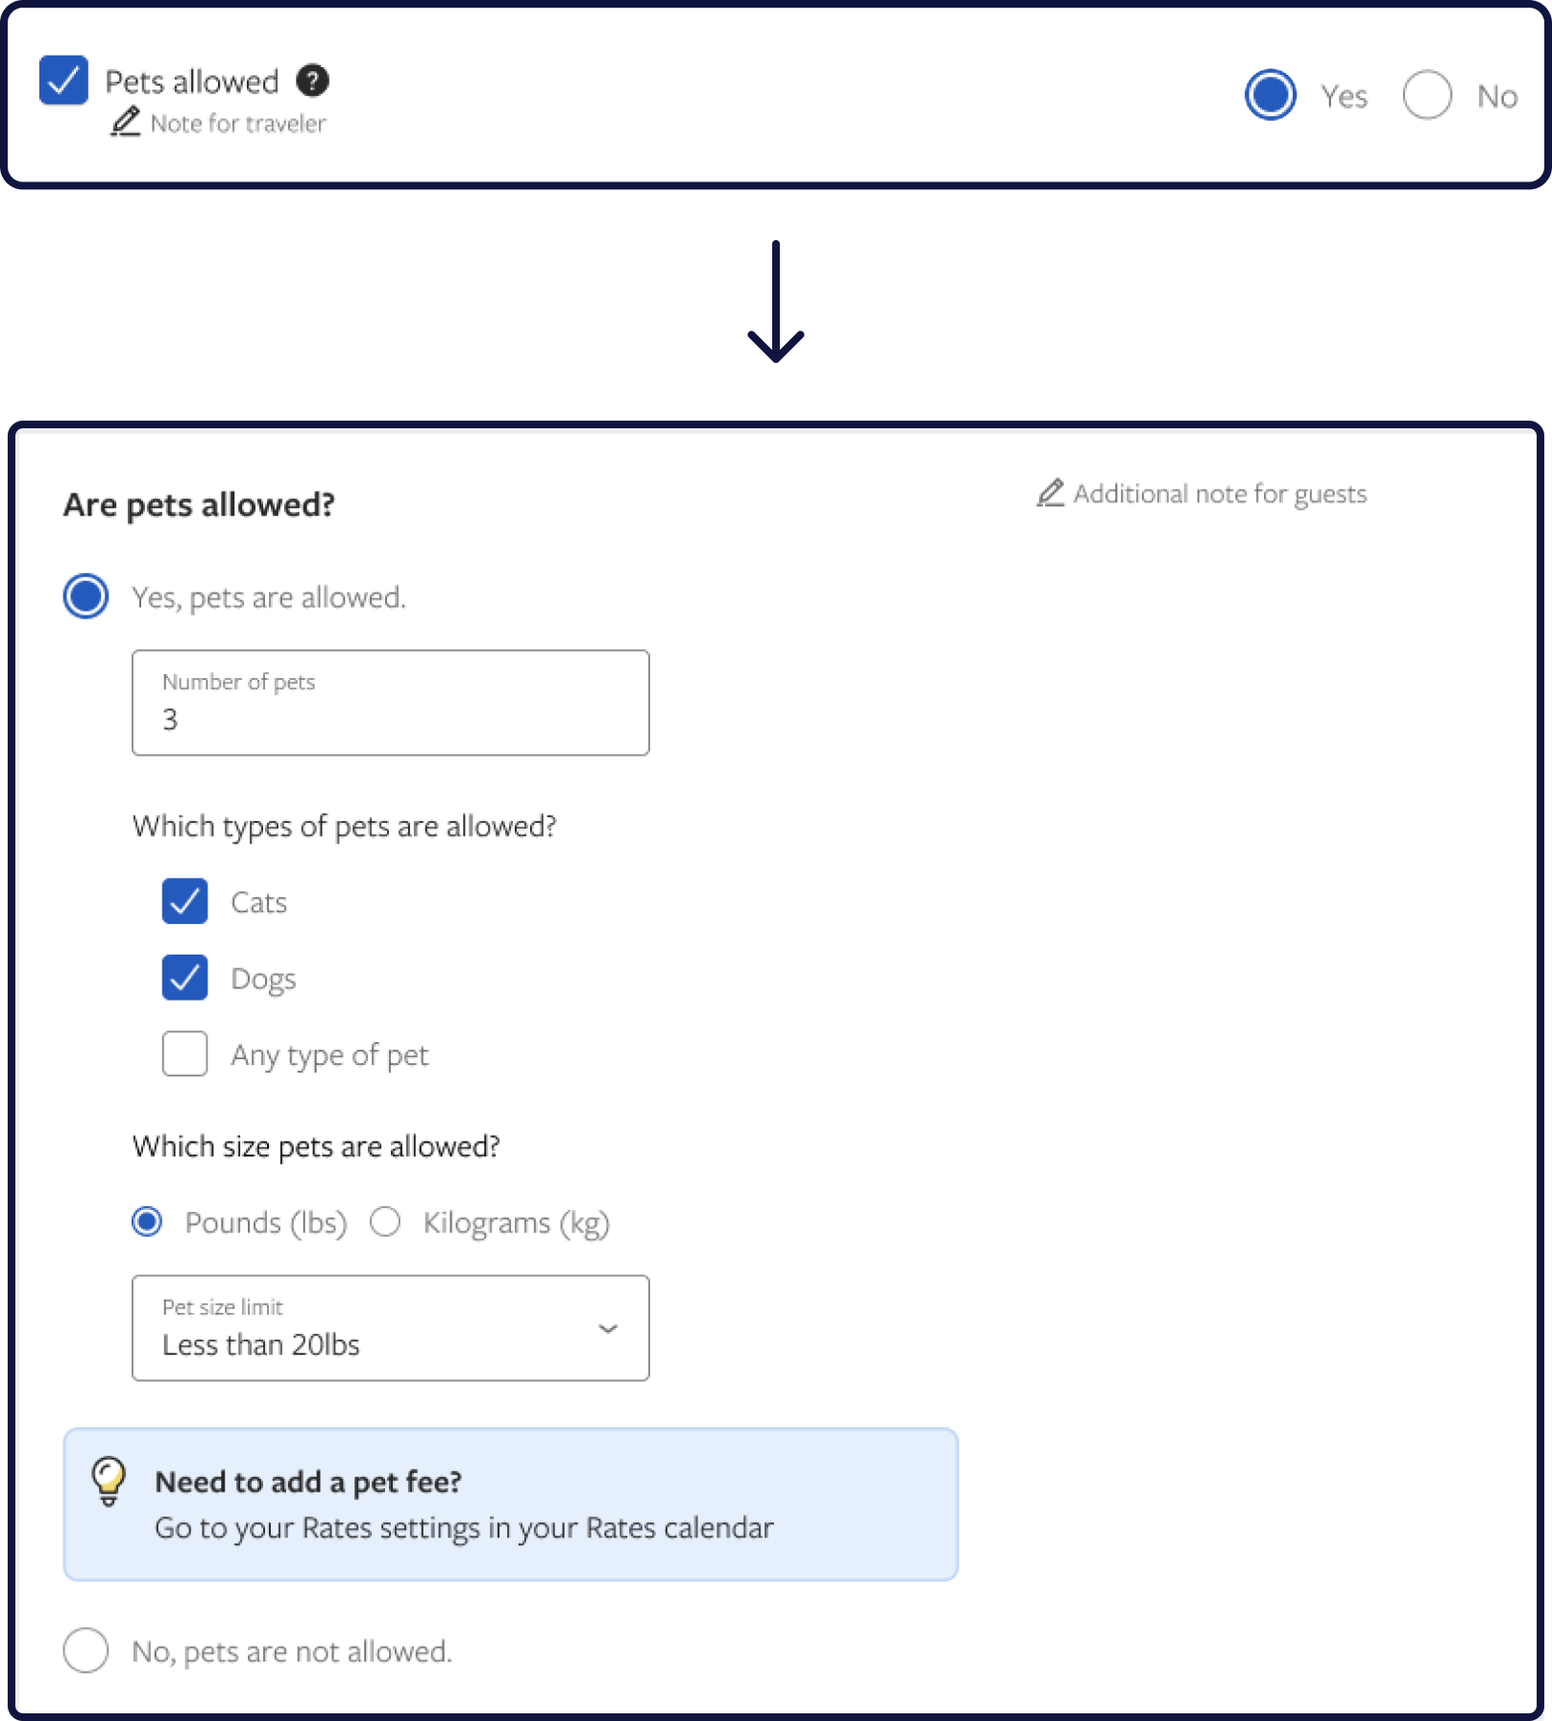
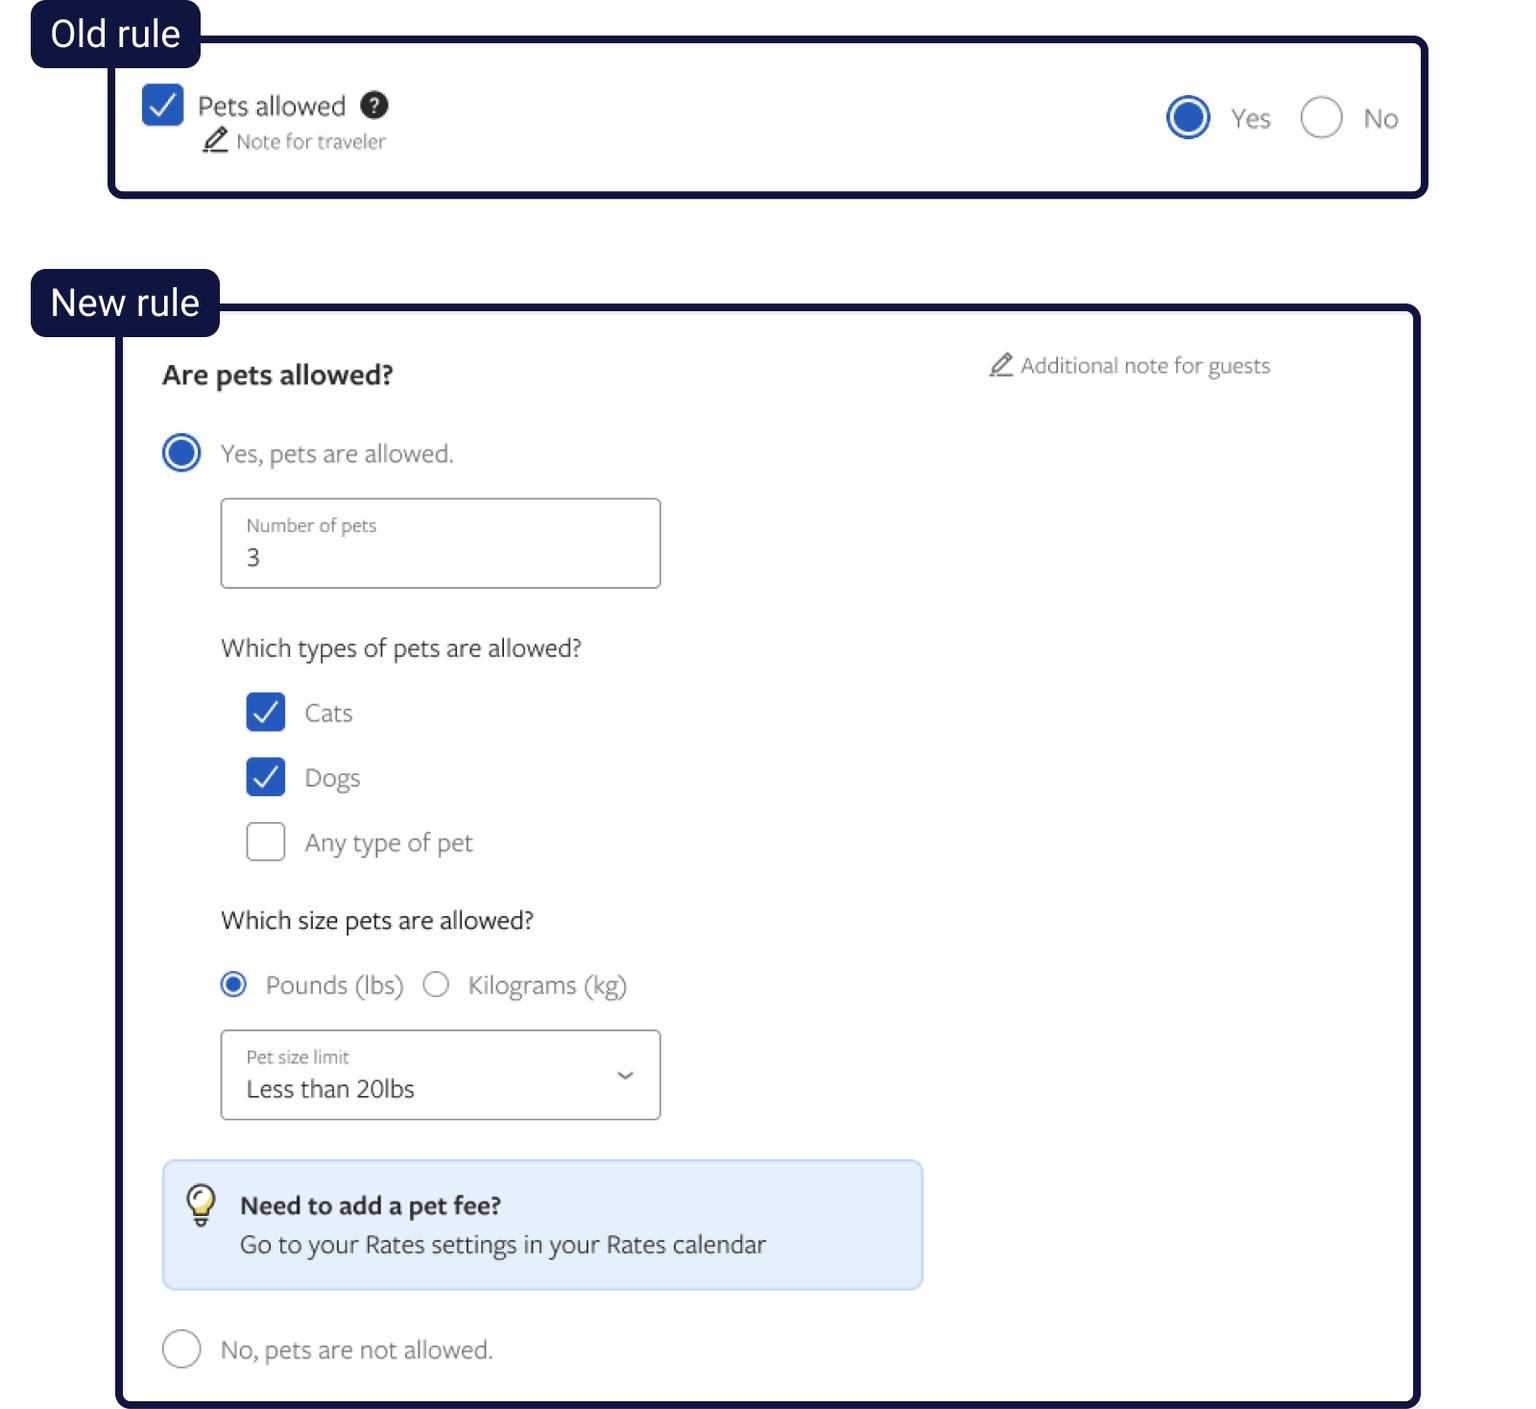
update content

Changed region(s): [[0.0, 0.184, 1.0, 1.0], [0.0, 0.0, 1.0, 0.1534], [0.4062, 0.3681, 0.4375, 0.4294]]

diff --git a/index.html b/index.html
@@ -16,13 +16,13 @@
   <meta property="og:type" content="website">
   <meta property="og:url" content="http://www.jannonjeffries.com">
   <meta property="og:description" content="View the design work of Jannon Jeffries">
-  <!-- <meta property="og:image" content="TBD"> -->
+  <meta property="og:image" content="images/OG.png">
 
 
   <!-- Favicon -->
-  <!-- <link rel="icon" href="/favicon.ico">
-    <link rel="icon" href="/favicon.svg" type="image/svg+xml">  
-    <link rel="apple-touch-icon" href="/apple-touch-icon.png"> -->
+  <link rel="icon" href="images/fav/favicon.ico">
+  <link rel="icon" href="images/logo_rose-gold.svg" type="image/svg+xml">
+  <link rel="apple-touch-icon" href="/apple-touch-icon.png">
 
 
   <!-- Fonts -->
@@ -97,11 +97,6 @@
         <h3>Overview</h3>
         <p>Homeowners set property rules travelers must agree to prior to booking. These rules encompass items like max
           occupancy, minimum renter age, allowance of pets, and several other rules.</p>
-        <!-- <div class="large-image-container">
-          <img class="project-image-large border-radius"
-            src="images/projects/house-rules/overview.png"
-            alt="A feedback module for the house rules page">
-        </div> -->
         <hr>
         <h3>Problem</h3>
         <p>Hosts cancel on travelers due to confusion surrounding house rules. Vrbo has over 13,000 cancellations
@@ -113,8 +108,7 @@
           were included in the house
           rules. (The outlined sections pictured above are areas for custom content.)</p>
         <div class="large-image-container">
-          <img class="project-image-large"
-            src="images/projects/house-rules/original.png"
+          <img class="project-image-large" src="images/projects/house-rules/original.png"
             alt="Original house rules experience">
         </div>
         <hr>
@@ -161,8 +155,7 @@
           Lastly, I regularly shared my working designs at our host team design critique for transparency and feedback.
         </p>
         <div class="large-image-container">
-          <img class="project-image-large"
-            src="images/projects/house-rules/process.png"
+          <img class="project-image-large" src="images/projects/house-rules/process.png"
             alt="Early iterations of the pets rule">
         </div>
         <div class="note center">
@@ -177,8 +170,7 @@
           <li>If each rule provided enough options for hosts</li>
         </ul>
         <div class="large-image-container">
-          <img class="project-image-large video-border"
-            src="images/projects/house-rules/prototype.gif"
+          <img class="project-image-large video-border" src="images/projects/house-rules/prototype.gif"
             alt="A prototype demonstrating the rule allowing pets">
         </div>
         <div class="note center">
@@ -197,31 +189,31 @@
         <h3>New designs</h3>
         <p>After updating some of the content and syncing with the Engineering team about scope, we were able to push
           forward with an updated version of house rules.</p>
-        <h4>A look at the new host view on desktop and mobile and what that content looks like for the traveler</h4>
+        <h4>A look at the new design</h4>
+        <p>The new host design utilizes components from the Vrbo design system, allowing hosts to always have the save
+          action within view. The content in the host view is also clearly represented in the traveler view as the host
+          intended.</p>
         <div class="large-image-container">
-          <img class="project-image-large"
-            src="images/projects/house-rules/new.png"
+          <img class="project-image-large" src="images/projects/house-rules/new.png"
             alt="The new house rules experience displayed on different screen sizes">
         </div>
         <h4>A comparison between an old rule and a new rule</h4>
         <p>The original rule included an "on/off" state as well as options for "yes" and "no". The new rule has only the
           "yes" and "no" options with other more specific inputs inspired by early user research.</p>
         <div class="large-image-container">
-          <img class="project-image-large"
-            src="images/projects/house-rules/compare.png"
+          <img class="project-image-large" src="images/projects/house-rules/compare.png"
             alt="Showing the difference between the original pets rule and the new pets rule">
         </div>
         <h4>Rule states</h4>
-        <p>In order to provide the Engineers with clarity, each rule was broken down into its different states.</p>
+        <p>In order to provide the Engineers with clarity, each rule has been broken down into its different states.
+          Using progressive disclosure, we only surface relevant content when the appropriate rule choice is selected.
+        </p>
         <div class="large-image-container">
-          <img class="project-image-large"
-            src="images/projects/house-rules/states.png"
+          <img class="project-image-large" src="images/projects/house-rules/states.png"
             alt="Showing the different states of the new pets rule">
         </div>
-      </div>
       <hr>
       <h3>Objectives follow-up</h3>
-      <p></p>
       <ul>
         <li>No amount of new structured rules will be sufficient to replace custom content for hosts with unique
           properties.</li>
@@ -232,8 +224,7 @@
       <hr>
       <h3>Next steps</h3>
       <p>To improve the house rules experience even further, we plan to add more rules after implementing additional
-        natural
-        language processing for host custom rules and notes.</p>
+        natural language processing for host custom rules and notes.</p>
       <br><br>
       <div class="button-container">
         <button class="button-secondary back-to-projects">Back to projects</button>
@@ -248,6 +239,7 @@
   <div id="cancelChangeOpened" class="hide">
     <div class="lightbox_content">
       <p class="material-icons close">close</p>
+      <div class="project-lightbox-content">
       <h2>Cancel and change</h2>
       <h3>Overview</h3>
       <p>Hosts are able to change or cancel a guest's reservation if the need arises.</p>
@@ -263,8 +255,7 @@
       <p>The original cancel experience has led to a lack of trust between travelers and hosts. In this experience,
         hosts are not required to explain to the guest why they are canceling.</p>
       <div class="large-image-container">
-        <img class="project-image-large image-border"
-          src="images/projects/cancel-change/cancel/original.png"
+        <img class="project-image-large image-border" src="images/projects/cancel-change/cancel/original.png"
           alt="Original cancellation screen">
       </div>
       <h4>Changing a reservation</h4>
@@ -272,8 +263,7 @@
         can be taken immediately following the flow, but there is little direction for hosts about how to handle these
         situations.</p>
       <div class="large-image-container">
-        <img class="project-image-large image-border"
-          src="images/projects/cancel-change/change/original.png"
+        <img class="project-image-large image-border" src="images/projects/cancel-change/change/original.png"
           alt="Original change screen">
       </div>
       <hr>
@@ -322,19 +312,16 @@
         </li>
       </ul>
       <div class="large-image-container">
-        <img class="project-image-large image-border"
-          src="images/projects/cancel-change/change/process1.png"
+        <img class="project-image-large image-border" src="images/projects/cancel-change/change/process1.png"
           alt="Mapping out the core functionality for the change flow during a design swarm">
       </div>
       <div class="small-image-container">
         <div>
-          <img class="project-image-small image-border"
-            src="images/projects/cancel-change/change/process2.png"
+          <img class="project-image-small image-border" src="images/projects/cancel-change/change/process2.png"
             alt="Sorting how-might-we statements during a design swarm">
         </div>
         <div>
-          <img class="project-image-small image-border"
-            src="images/projects/cancel-change/change/process3.png"
+          <img class="project-image-small image-border" src="images/projects/cancel-change/change/process3.png"
             alt="Voting on designers' ideas during a design swarm">
         </div>
       </div>
@@ -366,46 +353,40 @@
       <p>The new design adds friction against canceling at the top of the panel. We've also added a new required step of
         submitting additional context for every cancellation reason. </p>
       <div class="large-image-container">
-        <img class="project-image-large"
-          src="images/projects/cancel-change/cancel/new1.png"
+        <img class="project-image-large" src="images/projects/cancel-change/cancel/new1.png"
           alt="The first step of the cancellation process, after a host selects their reason for canceling">
       </div>
       <p>For host cancellations, we want to require 100% refund for guests since it's not their fault for these kinds of
         cancellations.</p>
       <div class="large-image-container">
-        <img class="project-image-large image-border"
-          src="images/projects/cancel-change/cancel/new2.png"
+        <img class="project-image-large image-border" src="images/projects/cancel-change/cancel/new2.png"
           alt="A screen with a disclaimer detailing what will happen when the host confirms the cancellation">
       </div>
       <p>Though we may not be able to prevent all cancellations, we can at least help prevent future cancellations by
         prompting hosts to sync their calendars and avoid double bookings. This coaching is specific to the reason the
         host is canceling on the guest.</p>
       <div class="large-image-container">
-        <img class="project-image-large image-border"
-          src="images/projects/cancel-change/cancel/new3.png"
+        <img class="project-image-large image-border" src="images/projects/cancel-change/cancel/new3.png"
           alt="The cancel success screen with coaching for the host to sync their calendar">
       </div>
       <h4>Changing a reservation</h4>
       <p>The options to change a reservation are now surfaced with the option to cancel. This allows for more
         scalability as change functionality grows.</p>
       <div class="large-image-container">
-        <img class="project-image-large"
-          src="images/projects/cancel-change/change/new1.png"
+        <img class="project-image-large" src="images/projects/cancel-change/change/new1.png"
           alt="The list of options a host will see when choosing to change or cancel a reservation">
       </div>
       <p>The new design gives hosts the option to view their calendar availability when choosing to change a
         reservation's dates. In the past, host have provided feedback concerning how they prefer to view their
         availability via the calendar.</p>
       <div class="large-image-container">
-        <img class="project-image-large image-border"
-          src="images/projects/cancel-change/change/new2.png"
+        <img class="project-image-large image-border" src="images/projects/cancel-change/change/new2.png"
           alt="A calendar view for hosts when selecting to change dates on a reservation">
       </div>
       <p>We have also included the ability to add a payment request or issue a refund within the change flow. The option
         presented will be based on a host's settings, but hosts are still able to override the selection.</p>
       <div class="large-image-container">
-        <img class="project-image-large image-border"
-          src="images/projects/cancel-change/change/new3.png"
+        <img class="project-image-large image-border" src="images/projects/cancel-change/change/new3.png"
           alt="A screen where hosts can request extra payment for a longer stay">
       </div>
 
@@ -446,13 +427,15 @@
   <div id="declineFlowOpened" class="hide">
     <div class="lightbox_content">
       <p class="material-icons close">close</p>
+      <div class="project-lightbox-content">
       <h2>Decline coaching</h2>
       <h3>Overview</h3>
       <p>Hosts can approve or decline a traveler's request to book their property. The decline flow allows hosts to
         explain why they can't host a guest.</p>
       <hr>
       <h3>Problem</h3>
-      <p>Host declines lead to disappointed travelers and a loss of revenue. Vrbo loses out on roughly 2M annually due
+      <p>Host declines lead to disappointed travelers and a loss of revenue. Vrbo loses out on millions of dollars
+        annually due
         to host declines. If hosts had an easier way to keep their settings and calendars up-to-date, a bulk
         of these declines could be prevented.</p>
       <hr>
@@ -462,15 +445,13 @@
         approve.
       </p>
       <div class="large-image-container">
-        <img class="project-image-large"
-          src="images/projects/decline-flow/old1.png"
+        <img class="project-image-large" src="images/projects/decline-flow/old1.png"
           alt="The original decline reason information screen">
       </div>
       <p>On the next step, hosts are bombarded with a confusing list of reasons. Once they select a reason, they are
         able to decline without any guidance on how to avoid missing out on future opportunities.</p>
       <div class="large-image-container">
-        <img class="project-image-large image-border"
-          src="images/projects/decline-flow/old2.png"
+        <img class="project-image-large image-border" src="images/projects/decline-flow/old2.png"
           alt="A dropdown list of the original reasons a host could choose for declining a booking request">
       </div>
       <hr>
@@ -507,16 +488,14 @@
         design team to ensure a variety of feedback.
       </p>
       <div class="large-image-container">
-        <img class="project-image-large border-radius"
-          src="images/projects/thumbnails/decline-thumbnail.jpg"
+        <img class="project-image-large border-radius" src="images/projects/thumbnails/decline-thumbnail.jpg"
           alt="Mapping the old decline reasons to the new decline reasons">
       </div>
       <div class="note center">
         <p>Above is a mapping of the old decline reasons to the newly proposed reasons</p>
       </div>
       <div class="large-image-container">
-        <img class="project-image-large"
-          src="images/projects/decline-flow/process2.png"
+        <img class="project-image-large" src="images/projects/decline-flow/process2.png"
           alt="Different explorations of calendar block prompt mid decline flow">
       </div>
       <div class="note center">
@@ -529,8 +508,7 @@
         opted to add a step mid-flow to block a host's availability. Lastly, depending on the decline reason, we
         implemented coaching either mid-flow or post-flow to help hosts save requests or prevent future declines.</p>
       <div class="large-image-container">
-        <img class="project-image-large"
-          src="images/projects/decline-flow/new1.png"
+        <img class="project-image-large" src="images/projects/decline-flow/new1.png"
           alt="New mobile designs for the decline flow">
       </div>
       <hr>
@@ -559,7 +537,8 @@
       <h3>Next steps</h3>
       <p>
         Since implementing new decline reasons, we've learned that many hosts are now selecting "Dates booked on another
-        platform" (22%) when declining a booking request. This tells us that many cross-listed hosts are still not
+        platform" (22%) when declining a booking request. This tells us that many hosts that list their properties on
+        multiple websites are still not
         syncing their calendars between platforms.
       </p>
       <p>
@@ -568,8 +547,7 @@
         permissions.
       </p>
       <div class="large-image-container">
-        <img class="project-image-large"
-          src="images/projects/decline-flow/next-steps.png"
+        <img class="project-image-large" src="images/projects/decline-flow/next-steps.png"
           alt="An update to the block calendar feature that allows for user control">
       </div>
       <div class="button-container">
@@ -590,6 +568,7 @@
   <div id="inboxOpened" class="hide">
     <div class="lightbox_content">
       <p class="material-icons close">close</p>
+      <div class="project-lightbox-content">
       <h2>Inbox redesign</h2>
       <h3>Overview</h3>
       <p>Hosts spend the majority of their time managing reservations and messaging guests via their inbox. The inbox
@@ -647,8 +626,7 @@
         the lead UX designer on the inbox redesign. I regularly met with the Product Manager, Engineers, and the Content
         Strategist to convey progress and troubleshoot issues with working designs. </p>
       <div class="large-image-container">
-        <img class="project-image-large"
-          src="images/projects/inbox/process1.png"
+        <img class="project-image-large" src="images/projects/inbox/process1.png"
           alt="Early explorations of the mobile inbox design">
       </div>
       <div class="note center">
@@ -666,13 +644,11 @@
       </ul>
       <div class="small-image-container">
         <div>
-          <img class="project-image-xsmall inbox-gif-styles"
-            src="images/projects/inbox/prototype1.gif"
+          <img class="project-image-xsmall inbox-gif-styles" src="images/projects/inbox/prototype1.gif"
             alt="Adding coaching to prompt host to send a payment request reminder">
         </div>
         <div>
-          <img class="project-image-xsmall inbox-gif-styles"
-            src="images/projects/inbox/prototype2.gif"
+          <img class="project-image-xsmall inbox-gif-styles" src="images/projects/inbox/prototype2.gif"
             alt="Swiping functionality used to mark a messase as unread ">
         </div>
       </div>
@@ -700,8 +676,7 @@
         booking status, inline coaching maybe present to help hosts act more quickly when they need to. We've also added
         the estimated payout to inquiries and booking requests to help incentivize action.</p>
       <div class="large-image-container">
-        <img class="project-image-large" src="images/projects/inbox/new1.png"
-          alt="The inbox design for desktop web">
+        <img class="project-image-large" src="images/projects/inbox/new1.png" alt="The inbox design for desktop web">
       </div>
       <h4>A mobile-first experience</h4>
       <p>We started designing the new mobile experience and worked up to desktop&mdash;leveraging native iOS components

diff --git a/css/styles.css b/css/styles.css
@@ -90,7 +90,7 @@ hr {
   margin: 0 24px; }
 
 .project-image-large {
-  margin: 0 auto 24px;
+  margin: 16px auto 24px;
   width: 100%;
   max-width: 800px;
   height: auto; }
@@ -305,10 +305,11 @@ section.projects {
   background: #ffffff; }
   .lightbox_content h2 {
     margin: 24px 24px 64px; }
-  .lightbox_content h3, .lightbox_content h4, .lightbox_content p {
+  .lightbox_content h3, .lightbox_content p {
     margin: 24px; }
   .lightbox_content h4 {
-    color: #6c8190; }
+    color: #6c8190;
+    margin: 24px 24px 0; }
 
 .close {
   font-size: 2rem;

diff --git a/scss/styles.scss b/scss/styles.scss
@@ -121,7 +121,7 @@ hr {
 }
 
 .project-image-large {
-	margin: 0 auto 24px;
+	margin: 16px auto 24px;
 	width: 100%;
 	max-width: 800px;
 	height: auto;
@@ -428,12 +428,13 @@ section.projects {
 	}
 
 	
-	h3, h4, p {
+	h3, p {
 		margin: 24px;
 	}
 
 	h4 {
 		color: $blue-gray;
+		margin: 24px 24px 0;
 	}
 
 
